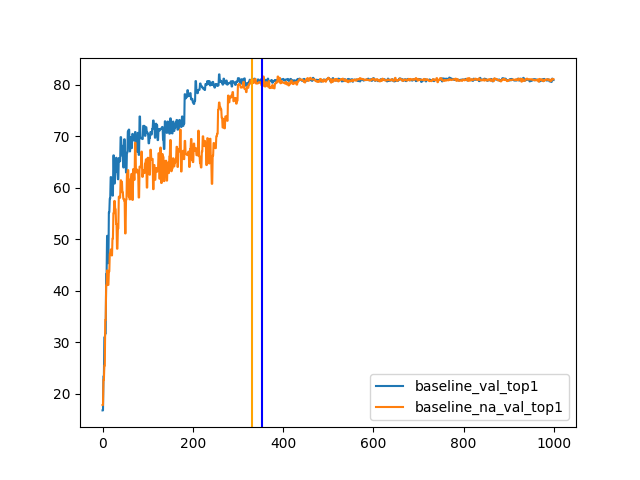
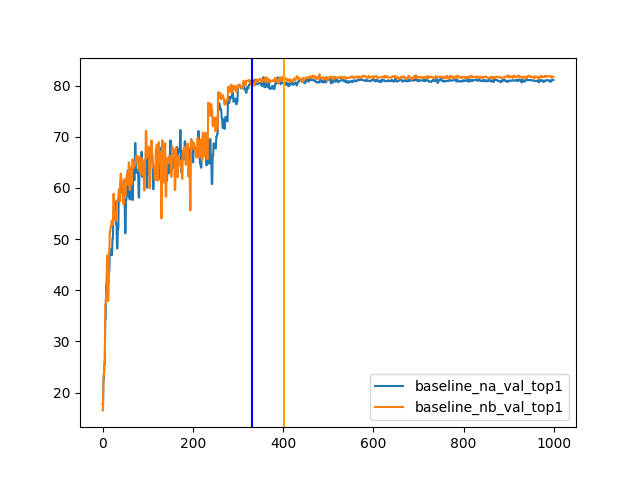
learning curce

diff --git a/lab/learning_curve/plot.py b/lab/learning_curve/plot.py
@@ -78,20 +78,20 @@ def compare_methodes(method1,method2, target1, target2):
     df['method1_train_loss'] = df_method1_train['Loss']
     df['method2_train_loss'] = df_method2_train['Loss']
     df.plot( y=["method1_train_loss", 'method2_train_loss'])
-    plt.axvline(x=354, color='blue')
-    plt.axvline(x=332, color='orange')
+    plt.axvline(x=332, color='blue')
+    plt.axvline(x=402, color='orange')
     
     df['method1_val_loss'] = df_method1_val['Loss_test']
     df['method2_val_loss'] = df_method2_val['Loss_test']
     df.plot( y=["method1_val_loss", 'method2_val_loss'])
-    plt.axvline(x=354, color='blue')
-    plt.axvline(x=332, color='orange')
+    plt.axvline(x=332, color='blue')
+    plt.axvline(x=402, color='orange')
     
-    df['method1_val_top1'] = df_method1_val['top1_base_test']
-    df['method2_val_top1'] = df_method2_val['top1_base_test']
-    df.plot( y=["method1_val_top1", 'method2_val_top1'])
-    plt.axvline(x=354, color='blue')
-    plt.axvline(x=332, color='orange')
+    df['{}_val_top1'.format(method1)] = df_method1_val['top1_base_test']
+    df['{}_val_top1'.format(method2)] = df_method2_val['top1_base_test']
+    df.plot( y=['{}_val_top1'.format(method1), '{}_val_top1'.format(method2)])
+    plt.axvline(x=332, color='blue')
+    plt.axvline(x=402, color='orange')
     
     plt.show()
 
@@ -130,4 +130,6 @@ def STARTUP_losses(method1, target1):
 # plot_all()
 
 # plot_all()
-STARTUP_losses('STARTUP', 'EuroSAT')
+# STARTUP_losses('STARTUP', 'EuroSAT')
+
+compare_methodes('baseline_na', 'baseline_nb', "", "")
